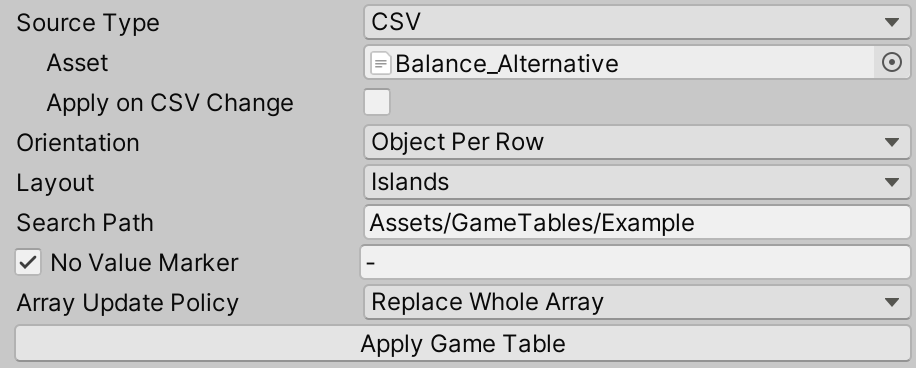
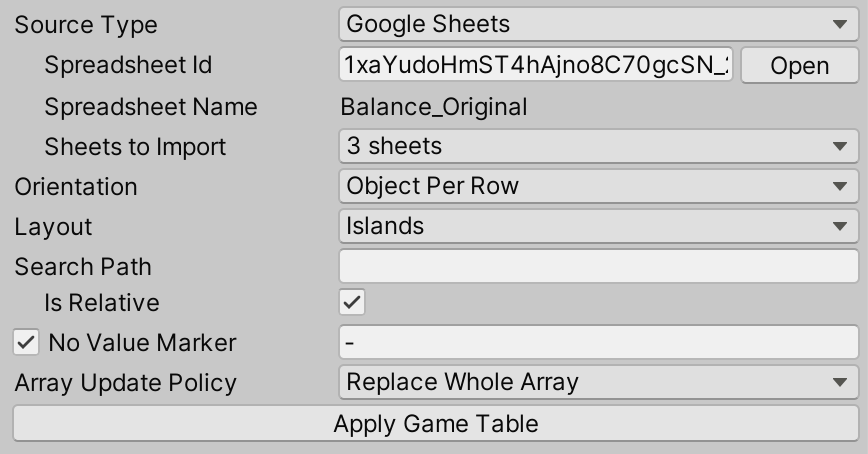
Improve Inspector

diff --git a/reference/inspector.md b/reference/inspector.md
@@ -2,96 +2,104 @@
 parent: Reference
 nav_order: 4
 ---
-# GameTable Inspector 
+# GameTable Inspector
 ![Game Tables Inspector UI]({{ site.baseurl }}{% link reference/inspector.png %})
+
+The GameTable Inspector lets you choose where the table data comes from and configure how Game Tables interprets that data when applying it to your project's assets.
 
 ## Properties
 
-<a id="source"></a> Source
+<a id="source"></a> Source Type
 
-: Specifies the type of the table data source. Currently CSV files and Google Sheets documents are supported. The following four parameters depend on selected value.
+: Specifies where this GameTable reads its data from. Currently, local CSV files and online Google Sheets documents are supported. The properties shown directly below depend on the selected source type.
 
 ### Google Sheets Properties
 
+These only appear if the *Source Type* is *Google Sheets*.
+
 <a id="spreadsheet-id"></a> Spreadsheet Id
 
-: A unique identifier of a Google Sheets document to import data from. Spreadsheet Id looks like a long sequence of letters and numbers. You may paste the entire URL of a Google Sheets document from the browser address bar—the interesting part will be extracted automatically.
+: The unique identifier of the Google Sheets document to import data from. A spreadsheet ID is a long sequence of letters and numbers and can be found in the document's URL. As a shortcut, you can paste the entire URL into this field — Game Tables will extract the ID automatically.
 
-  In order to access Google Sheets documents you need to authorize in Google and grant access to Game Tables application. In case if you have not authorized yet, a special UI will be shown below. More information about Google Sheets authrozation see in [Authorize in Google Sheets]({{ site.baseurl }}{% link guides/authorize_in_google_sheets.md %}).
+  To use Google Sheets documents, you must sign in to Google and grant Game Tables access to your spreadsheets. If you aren't signed in, an authorization button is shown at the bottom of the Source block. For more information, see [Authorize in Google Sheets]({{ site.baseurl }}{% link guides/authorize_in_google_sheets.md %}).
 
-  Game Tables supports only documents in United States (en_US) locale. You can change locale of a spreadsheet in File / Spreadsheet Settings menu.
+  Game Tables supports only documents in the US locale (en_US). You can change a spreadsheet's locale from the *File / Spreadsheet Settings* menu in Google Sheets.
 
 Spreadsheet Name
 
-: A read-only field that displays the name of the specified Google Sheets document. It helps you to be sure that the specified [Spreadsheet Id](#spreadsheet-id) is correct.
+: A read-only field that displays the name of the document at the specified [Spreadsheet Id](#spreadsheet-id). Use it to confirm that the ID points to the document you intended.
 
 Sheets to Import
 
-: A checklist that specifies which of the document sheets you want to import. You may use this property for multi-sheets documents to make Game Tables import only some of them.
+: A dropdown that lets you pick which sheets of the document to import. Each entry in the dropdown is checkable, so you can import any subset of the document's sheets.
 
-  | Keep in mind, that a GameTable object stores a concrete list of sheets. The menu item *Select All* just updates the list to the current value got from the server. It does mean that if the composition of sheets is changed in the online document, existing GameTable object may require manual update. |
+  | Keep in mind that a GameTable always stores a concrete list of sheet names. The *Select All* menu item simply populates that list with all sheets currently available on the server. If sheets are later added or removed in the online document, you may need to update the list manually. |
 
 ### CSV Properties
 
+These only appear if the *Source Type* is *CSV*.
+
 Asset
 
-: A reference to a .csv file in the project to import data from. The referenced asset should be [TextAsset](https://docs.unity3d.com/Manual/class-TextAsset.html).
+: A reference to a .csv file in the project to import data from. The referenced asset must be a [TextAsset](https://docs.unity3d.com/Manual/class-TextAsset.html).
 
 Apply on CSV Change
 
-: If checked, the GameTable will be re-applied each time the source .csv file is changed.
+: If checked, the GameTable is automatically re-applied each time the source .csv file changes, without requiring a manual click on [Apply Game Table](#apply-game-table).
 
 ### Common Properties
 
 <a id="orientation"></a> Orientation
 
-: Specifies how to interpret column and row headers. The default mode is *Object Per Row* in which case row headers are considered Prefab names (with optional property prefixes) and column headers are considered as property names. The *Property Per Row* mode "flips" the table. More on row and columns headers see in [Header Format]({{ site.baseurl }}{% link reference/header_format.md %}).
+: Specifies how to interpret column and row headers. In the default *Object Per Row* mode, each row corresponds to an object — its header is a Prefab name (optionally with a property prefix) — and each column corresponds to a property. The *Property Per Row* mode flips this: rows become properties and columns become objects. For more on header syntax, see [Header Format]({{ site.baseurl }}{% link reference/header_format.md %}).
 
 <a id="layout"></a> Layout
 
-: Specifies whether Game Tables should interpret the whole sheet as a single table or a collection of multiple isolated tables. Each table has separate row and column headers. By using *Islands* mode you can define properties for objects of different types in a single sheet. The *Single Table* mode supposes that the whole sheet has a single heading row and a single heading column.
+: Specifies whether Game Tables should interpret each sheet as a single continuous table (*Single Table*) or a collection of multiple isolated tables (*Islands*). Since each table has its own row and column headers, putting multiple tables on the same sheet lets you apply properties to several different types of objects from a single sheet.
 
-  For multisheet documents (e.g. Google Sheets documents) this property is applied to each sheet. That is, you may have several sheets in a document and each of these sheets may contain several tables.
+  For multi-sheet documents, this setting is applied to each sheet independently. In other words, every sheet of a document can contain several tables.
 
-  To make part of a sheet an island, separate it from the surroundings by a border of empty cells.
+  For a group of cells to form a separate table (an *island*), it must be surrounded by a border of empty cells.
 
-  The default value is *Islands*.
+  The default mode is *Islands*.
 
 <a id="search-path"></a> Search Path
 
-: Specifies the root folder for searching assets that are referenced from the table. The path is relative to the project root folder and usually starts with *Assets/* (e.g. *Assets/Prefabs/Buildings*).
+: Specifies the root folder under which Game Tables searches for assets referenced from the table. The path is relative to the project folder and usually starts with *Assets/* (for example, *Assets/Prefabs/Buildings*).
 
-  This folder is used for assets specified in either header or content rows. More on referencing assets from another assets see in [Asset References]({{ site.baseurl }}{% link reference/data_types.md %}#asset-references).
+  This folder is used both for [Prefab Names]({{ site.baseurl }}{% link reference/header_format.md %}#prefab-name) referenced in header cells and for [asset references]({{ site.baseurl }}{% link reference/data_types.md %}#asset-references) in content cells.
+
+  If the *Is Relative* option is enabled, the path is interpreted as relative to the GameTable asset's own location. For example, if the inspected GameTable lives at `Assets/Units/AllUnits.asset`, a relative search path of *Melee* refers to the `Assets/Units/Melee` folder.
 
 No Value Marker
 
-: Specifies a value that may be used in the table to mark cells that do not have a value. Not having a value is not the same as empty cell. By default, if a cell is empty, then an empty value will be assigned to the property. But if cell contain "no value" marker value, property will not be changed at all.
+: Specifies a value that, when found in a cell, marks the cell as having no value at all. A cell with no value is not the same as an empty cell. By default, an empty cell assigns an empty value to the target property — for example, a string property becomes the empty string. A cell containing the *No Value Marker*, by contrast, leaves the target property unchanged.
 
-  This may be useful when you have a group of objects having many common properties but a few different properties. By using *No Value Marker* you may put all these objects into a single table:
+  This is useful when you have a group of objects that share many common properties but differ in a few. With a *No Value Marker*, you can keep all those objects in a single table:
 
   |          | Health | Movement Speed | Fire Range  |
   |:---------|-------:|---------------:|------------:|
   | Archer   | 120    | 35             | 14          |
   | Knight   | 90     | 20             | -           |
 
-  In the above example Knight Prefab does not have Fire Range property so it's an error to specify Fire Range for Knight. But if you put a special *No Value Marker* value into the Fire Range cell, Game Tables will ignore it.
+  In the example above, the Knight Prefab has no Fire Range property, so writing a value there would normally produce an error. The "-" in that cell is the *No Value Marker* (the default value), which tells Game Tables to skip the cell entirely.
 
 <a id="array-update-policy"></a> Array Update Policy
 
-: Specifies how Game Tables should treat array updates. There are two modes available:
+: Specifies how Game Tables combines the values from the table with the existing contents of an array property. Two modes are available:
 
   - **Replace Whole Array** (default)
     
-    In this mode, if an array property is referenced from a table, it's replaced entirely. Because you always refer a specific array element from a table, it's possible to have holes in the array after an update. These holes are assigned to the default value for a specific data type (empty string for strings, zero for numbers etc.). For more on data types and their default values see [Data Types]({{ site.baseurl }}{% link reference/data_types.md %}).
+    The entire array is replaced with values from the table. Since the table references specific array indices, the resulting array may contain gaps where no index was referenced; those positions are filled with the default value for the property's data type (the empty string for strings, zero for numbers, and so on). For more on data types and their default values, see [Data Types]({{ site.baseurl }}{% link reference/data_types.md %}).
 
   - **Replace Specific Elements**
     
-    In this mode, if an array property is referenced from a table, only items at the referenced indices are replaced.
+    Only the items at the referenced indices are replaced. Any other elements of the array remain intact.
 
-  More information on this property see in [Array Update Modes]({{ site.baseurl }}{% link reference/arrays.md %}#array-update-modes).
+  For more information, see [Array Update Modes]({{ site.baseurl }}{% link reference/arrays.md %}#array-update-policy).
 
 <a id="apply-game-table"></a> Apply Game Table
 
-: Updates properties of all the target Prefabs and ScriptableObject by data imported from the specified table source. If something goes wrong during the applying, an error message is shown in the Console window and all the affected objects are reverted to the state they had before the update. A successful application may be reverted in a single step by Unity's Undo menu.
+: Updates the properties of all target Prefabs and ScriptableObjects with data imported from the configured source. If something goes wrong during the process, an error message is logged to the Console window and all affected objects are reverted to the state they were in before the update. A successful update can also be reverted in a single step using Unity's Undo command.
 
-  After an update all the affected Prefabs are *not saved* automatically. You need to run *File / Save Project* to persist the changes.
+  | After an update, the affected Prefabs and ScriptableObjects are *not saved* automatically. Run *File / Save Project* to persist the changes. |